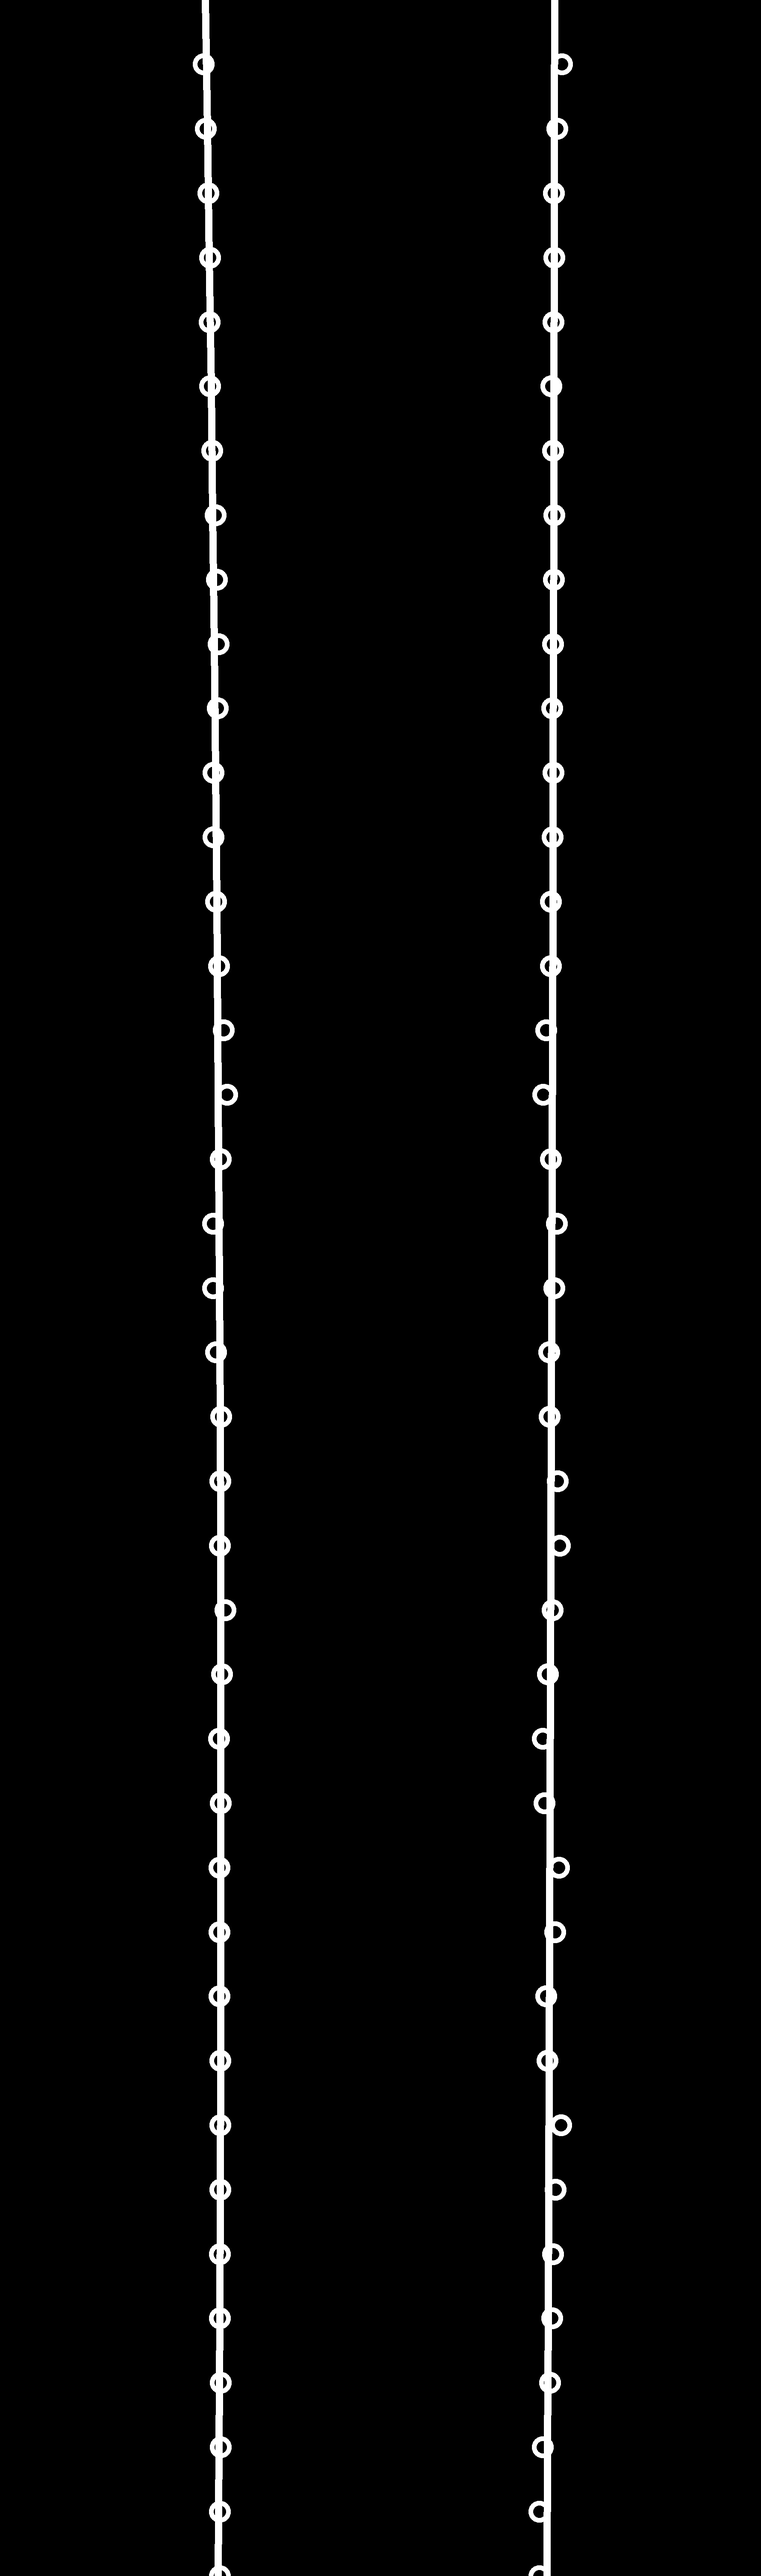
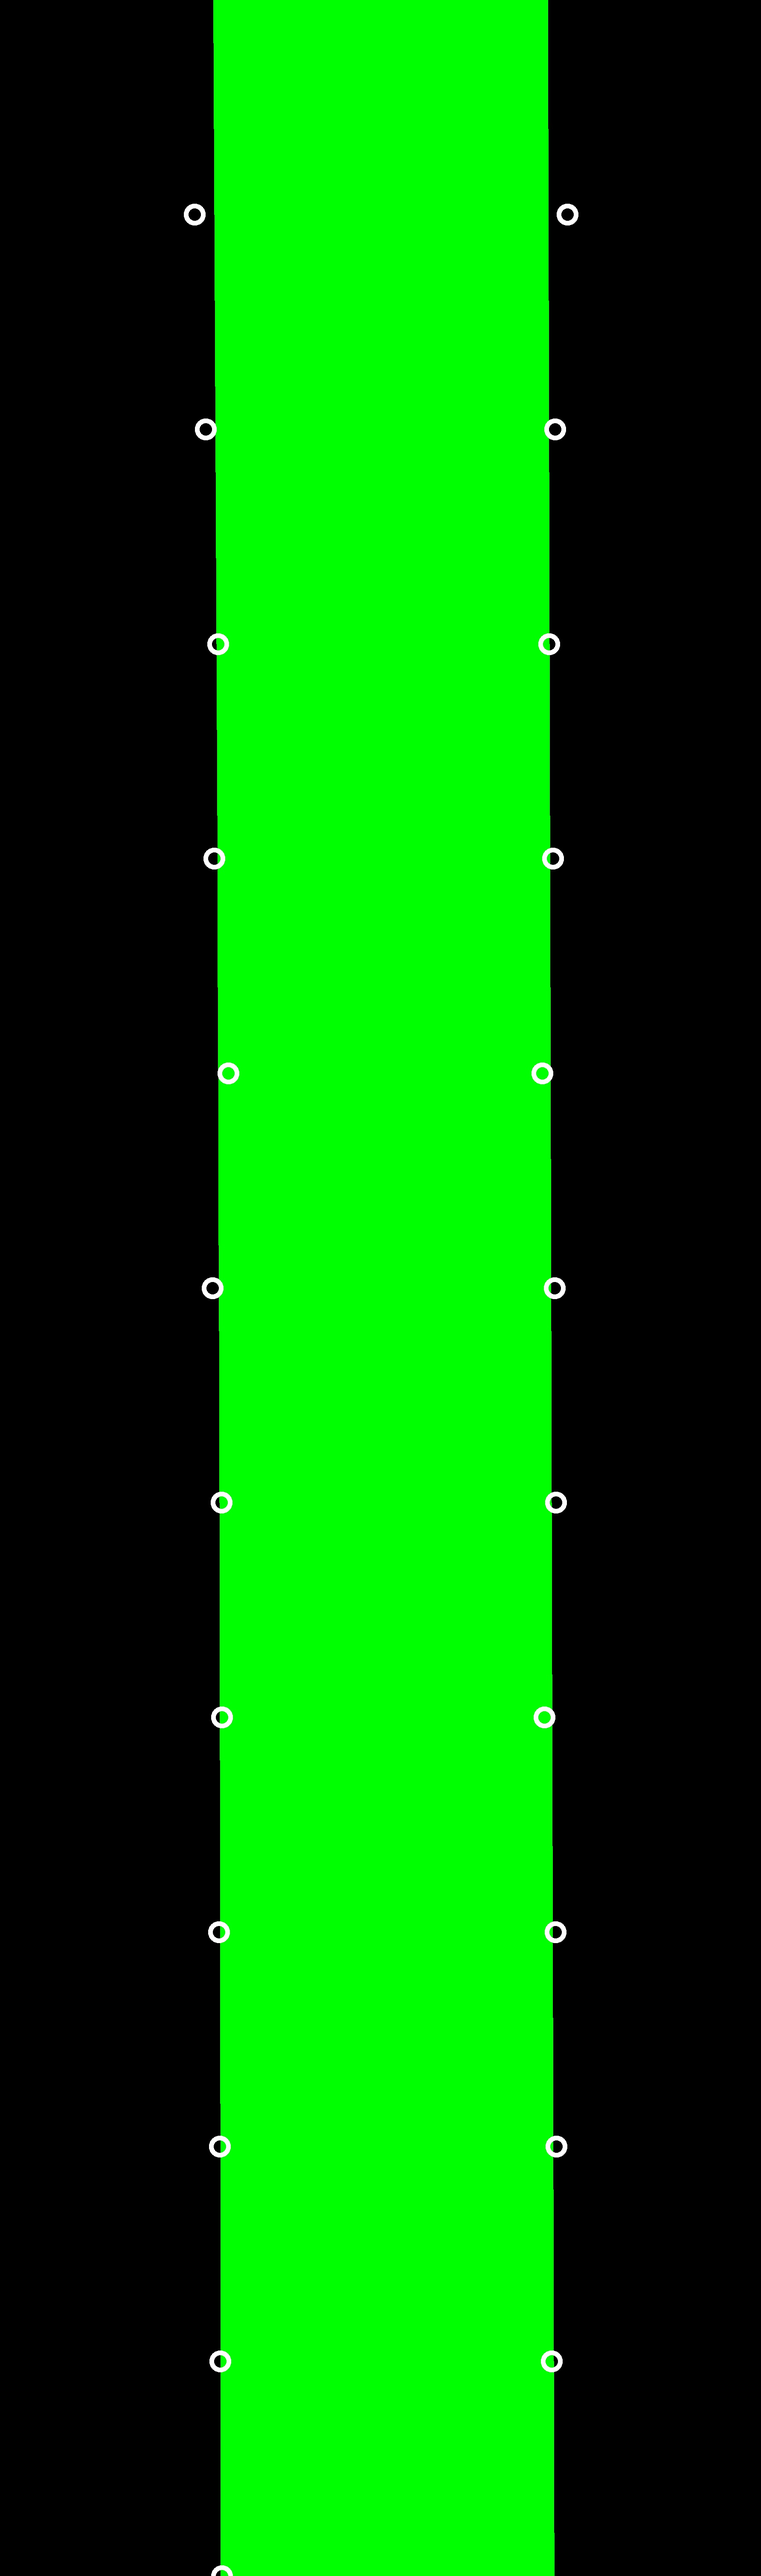
Draw lanes on bird eye view and transform to dash via OpenCV (instead of trying to draw directly on dash with my adhoc transformation)

diff --git a/main.py b/main.py
@@ -64,6 +64,9 @@ def undistort_files(calibration, src_pattern, dst_dir):
   """Test image distortion correction on test files"""
   transform_image_files((lambda x: undistort(x, calibration)), src_pattern, dst_dir)
 
+original_max_x = 1280
+original_max_y = 720
+
 lane_settings = {'name': 'lanes',
                  'presence_weight': 50.0, 'threshold': 0.5,
                  'original_max_x': 1280, 'original_max_y': 720,
@@ -251,40 +254,6 @@ perspective_origin_delta_x_bottom = perspective_origin_x_bottom_right - perspect
 perspective_origin_delta_x_top = perspective_origin_x_top_right - perspective_origin_x_top_left
 perspective_origin_delta_y = perspective_origin_y_bottom - perspective_origin_y_top
 
-def draw_lines_on_dash(dash_img, lines):
-  max_y_idx = 5
-  points_left = []
-  points_right = []
-  for line_idx in range(2):
-    line = lines[line_idx]
-    #print("-----")
-    #print("Line: " + str(line))
-    for y_idx in range(max_y_idx + 1):
-      portion_bottom_to_top = y_idx * 1.0 / max_y_idx
-      y = perspective_origin_y_bottom - portion_bottom_to_top * perspective_origin_delta_y
-      yp = perspective_delta_y * (1 - portion_bottom_to_top)
-      xp = line[0] * yp**2 + line[1] * yp + line[2]
-      x_portion = (xp - perspective_border_x) / perspective_delta_x
-      x_left = perspective_origin_x_bottom_left + portion_bottom_to_top * (perspective_origin_x_top_left - perspective_origin_x_bottom_left)
-      x_right = perspective_origin_x_bottom_right + portion_bottom_to_top * (perspective_origin_x_top_right - perspective_origin_x_bottom_right)
-      x = x_left + x_portion * (x_right - x_left)
-      #print("  (x, y) =  (" + str(round(x,2)) + ", " + str(round(y,2)) + ")   " +
-      #      "  (xp,yp) = (" + str(round(xp,2)) + ", " + str(round(yp,2)) + ")")
-      #print("x_left=" + str(round(x_left,2)) + ", x_right=" + str(round(x_right,2)))
-      #print("x_portion=" + str(round(x_portion,2)) + ", bottom_to_top=" + str(round(portion_bottom_to_top,2)))
-      #print("..")
-      if line_idx == 0:
-        points_left.append([x,y])
-      else:
-        points_right.append([x,y])
-    #print("-----")
-  points_right.reverse()
-  points = points_left + points_right
-  img = np.zeros_like(dash_img)
-  cv2.fillPoly(img, np.int_([points]), (0,255,0))
-  res = cv2.addWeighted(dash_img, 1, img, 0.3, 0)
-  return res
-
 def perspective_matrices():
   # These points (list of [x,y] pairs) are taken from lane lines
   # in output_images/dash_undistort/straight_lines2.jpg.
@@ -306,6 +275,10 @@ M,M_inv = perspective_matrices()
 
 def perspective_transform(img):
   img = cv2.warpPerspective(img, M, (perspective_max_x, perspective_max_y), flags=cv2.INTER_LINEAR)
+  return img
+
+def perspective_reverse(img):
+  img = cv2.warpPerspective(img, M_inv, (original_max_x, original_max_y), flags=cv2.INTER_LINEAR)
   return img
 
 def find_lane_centroids(img):
@@ -382,6 +355,25 @@ def draw_lane_lines(lines):
       prev_x = x
       prev_y = y
   return img
+
+def draw_lane_lines(lines):
+  img = np.zeros((perspective_max_y, perspective_max_x, 3), dtype="uint8")
+  points = [[],[]]
+  for line_idx in range(2):
+    line = lines[line_idx]
+    for i in range(31):
+      y = int(perspective_max_y * i / 30)
+      x = int(line[0] * y**2 + line[1] * y + line[2])
+      points[line_idx].append((x,y))
+  points[1].reverse()
+  cv2.fillPoly(img, np.int_([points[0] + points[1]]), (0,255,0))
+  return img
+
+def draw_lines_on_dash(dash_img, lines):
+  perspective_lanes_img = draw_lane_lines(lines)
+  dash_lanes_img = perspective_reverse(perspective_lanes_img)
+  res = cv2.addWeighted(dash_img, 1, dash_lanes_img, 0.3, 0)
+  return res
 
 def convert_lane_heatmap_to_lane_lines_image(img):
   centroids = find_lane_centroids(img)
@@ -516,6 +508,9 @@ def main():
   transform_image_files(perspective_transform,
                         'output_images/dash_undistort/*.jpg',
                         'output_images/birds_eye')
+  transform_image_files(perspective_reverse,
+                        'output_images/birds_eye/*.jpg',
+                        'output_images/bird_to_dash')
   undistort_files(calibration,
                   'output_images/markings/*.jpg',
                   'output_images/undistort_markings')
